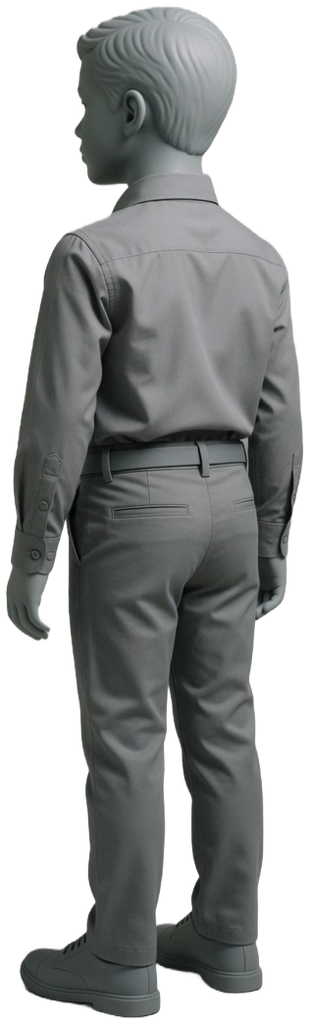
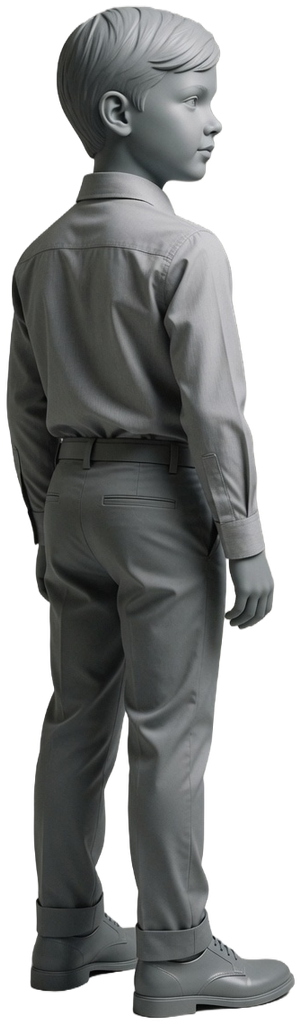
mannequin fix

diff --git a/lib/constants/mannequin-assets.ts b/lib/constants/mannequin-assets.ts
@@ -111,7 +111,7 @@ const MANNEQUIN_TRIM: Record<string, MannequinTrim> = {
   'male-child-standard-front': { paddingBottom: 0.0049, paddingTop: 0.0049, contentHeightRatio: 0.9902, feetCenterX: 0.4985 },
   'male-child-standard-left': { paddingBottom: 0.0049, paddingTop: 0.0049, contentHeightRatio: 0.9902, feetCenterX: 0.4957 },
   'male-child-standard-rearThreeQuarterLeft': { paddingBottom: 0.0059, paddingTop: 0.0059, contentHeightRatio: 0.9883, feetCenterX: 0.4983 },
-  'male-child-standard-rearThreeQuarterRight': { paddingBottom: 0.0059, paddingTop: 0.0059, contentHeightRatio: 0.9883, feetCenterX: 0.4984 },
+  'male-child-standard-rearThreeQuarterRight': { paddingBottom: 0.0059, paddingTop: 0.0059, contentHeightRatio: 0.9883, feetCenterX: 0.4983 },
   'male-child-standard-right': { paddingBottom: 0.0059, paddingTop: 0.0049, contentHeightRatio: 0.9893, feetCenterX: 0.4979 },
   'male-child-standard-threeQuarterLeft': { paddingBottom: 0.0059, paddingTop: 0.0059, contentHeightRatio: 0.9883, feetCenterX: 0.4983 },
   'male-child-standard-threeQuarterRight': { paddingBottom: 0.0059, paddingTop: 0.0059, contentHeightRatio: 0.9883, feetCenterX: 0.4969 },